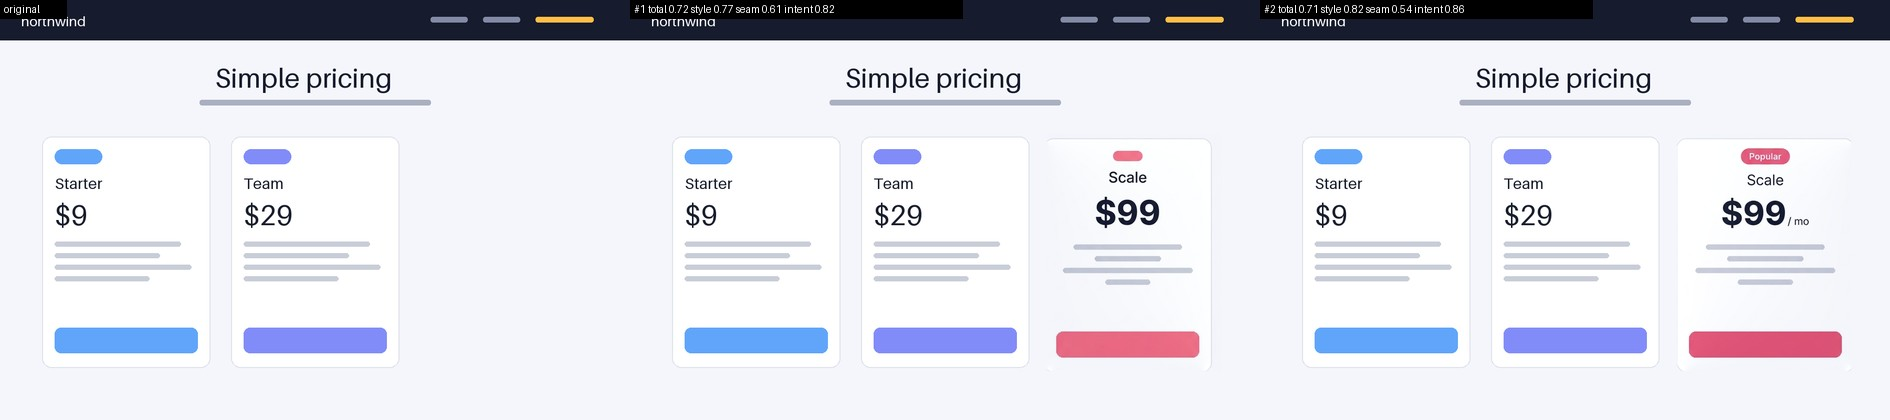
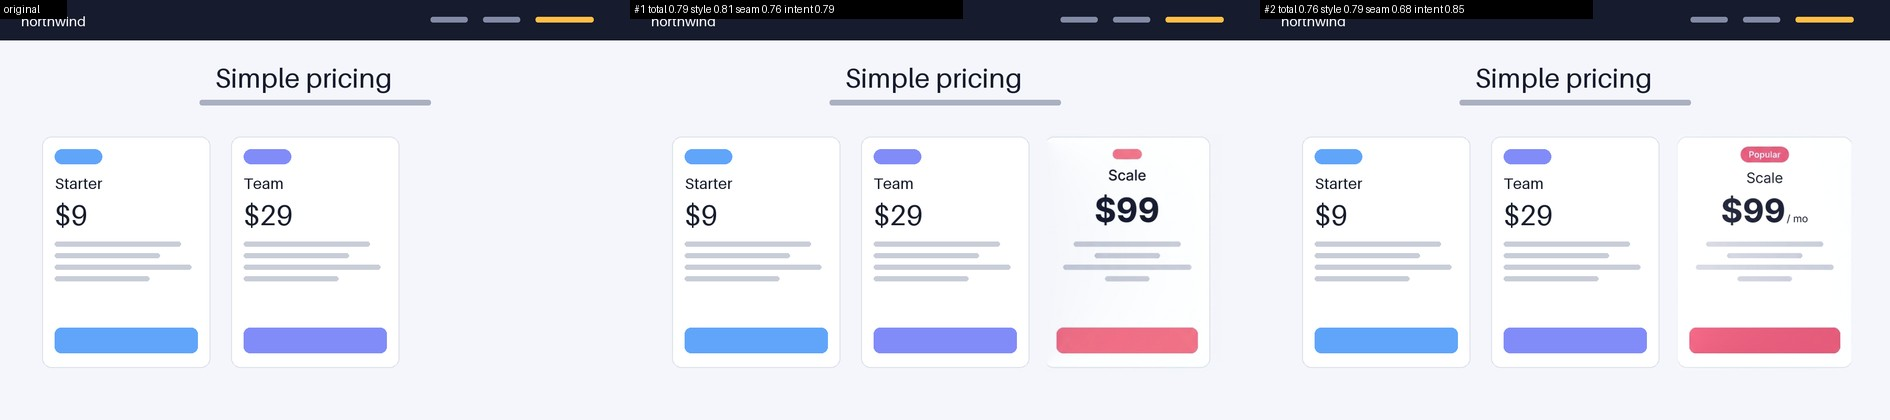
Align generated fills with the original before pasting them in
Gemini takes no mask and redraws the whole crop, and its output came
back zoomed about 1% and shifted about 5 px, so the new card landed off
its slot and its edge was clipped by the mask. The fill is now
registered to the original using the pixels outside the mask (ECC,
affine) before it is composited. Checked on a synthetic zoom-and-shift
and on the two cached live outputs; the proof sheet is regenerated.
Found by independent review.

diff --git a/backend/app/ideas/autocomplete.py b/backend/app/ideas/autocomplete.py
@@ -421,6 +421,38 @@ def _generation_size(w: int, h: int) -> tuple[int, int]:
     return (max(16, round(w * scale / 16) * 16), max(16, round(h * scale / 16) * 16))
 
 
+def register(generated: Image.Image, original: Image.Image, mask: np.ndarray) -> Image.Image:
+    """Line a generated image up with the original before pasting part of it in.
+
+    An edit model that takes no mask redraws the whole picture, and what comes
+    back is typically zoomed by a percent or so and shifted a few pixels. Pasted
+    in as it is, the new element lands off its slot. The pixels outside the mask
+    show the same content in both images, so they are used to find the small
+    shift/zoom between the two, which is then undone. If no alignment is found,
+    or it does not make the surroundings match better, the image is returned
+    unchanged.
+    """
+    ref_rgb, gen_rgb = np.asarray(to_rgb(original)), np.asarray(to_rgb(generated))
+    ref = cv2.cvtColor(ref_rgb, cv2.COLOR_RGB2GRAY).astype(np.float32)
+    gen = cv2.cvtColor(gen_rgb, cv2.COLOR_RGB2GRAY).astype(np.float32)
+    # Stay clear of the region being replaced: its content differs on purpose.
+    outside = (cv2.dilate(mask, np.ones((31, 31), np.uint8)) == 0).astype(np.uint8)
+    if outside.mean() < 0.05:
+        return generated
+    warp = np.eye(2, 3, dtype=np.float32)
+    criteria = (cv2.TERM_CRITERIA_EPS | cv2.TERM_CRITERIA_COUNT, 200, 1e-6)
+    try:
+        _, warp = cv2.findTransformECC(ref, gen, warp, cv2.MOTION_AFFINE, criteria, outside * 255, 5)
+    except cv2.error:
+        return generated
+    h, w = ref.shape
+    aligned = cv2.warpAffine(gen_rgb, warp, (w, h), flags=cv2.INTER_LINEAR + cv2.WARP_INVERSE_MAP, borderMode=cv2.BORDER_REPLICATE)
+    keep = outside > 0
+    before = np.abs(gen - ref)[keep].mean()
+    after = np.abs(cv2.cvtColor(aligned, cv2.COLOR_RGB2GRAY).astype(np.float32) - ref)[keep].mean()
+    return Image.fromarray(aligned) if after < before else generated
+
+
 def composite(original: Image.Image, generated: Image.Image, mask: np.ndarray) -> Image.Image:
     """Generated pixels inside the mask, original pixels everywhere else."""
     out = original.copy()
@@ -527,7 +559,7 @@ def fill(
     fills = []
     for out in outputs:
         generated = img.copy()
-        generated.paste(out.resize(crop.size, Image.LANCZOS), (x0, y0))
+        generated.paste(register(out.resize(crop.size, Image.LANCZOS), crop, crop_mask), (x0, y0))
         raw = composite(img, generated, mask)
         blended = blend(img, generated, mask)
         patch = _crop_to_mask(blended, mask)

diff --git a/backend/tests/test_autocomplete.py b/backend/tests/test_autocomplete.py
@@ -4,6 +4,7 @@ import json
 import time
 from pathlib import Path
 
+import cv2
 import numpy as np
 import pytest
 from PIL import Image, ImageDraw
@@ -181,6 +182,40 @@ def test_blend_survives_a_tiny_mask():
     mask = np.zeros((200, 300), np.uint8)
     mask[50:52, 60:61] = 255
     assert A.blend(img, Image.new("RGB", img.size, (0, 0, 0)), mask).size == img.size
+
+
+def _slot_error(image: Image.Image, original: Image.Image, mask: np.ndarray) -> float:
+    """Mean difference from the original in a band just outside the mask."""
+    band = (cv2.dilate(mask, np.ones((61, 61), np.uint8)) > 0) & (cv2.dilate(mask, np.ones((33, 33), np.uint8)) == 0)
+    return float(np.abs(np.asarray(image).astype(float) - np.asarray(original).astype(float))[band].mean())
+
+
+@pytest.mark.parametrize("zoom, dx, dy", [(1.012, 5.0, -3.0), (0.99, -4.0, 6.0), (1.0, 0.0, 0.0)])
+def test_register_undoes_a_small_zoom_and_shift(zoom, dx, dy):
+    img, truth = DESIGNS["pricing_missing_right"]()
+    x, y, w, h = truth[0]
+    mask = np.zeros((img.height, img.width), np.uint8)
+    mask[y : y + h, x : x + w] = 255
+    # What an edit model returns: the design with the slot filled, slightly zoomed and shifted.
+    filled = img.copy()
+    ImageDraw.Draw(filled).rounded_rectangle((x, y, x + w, y + h), radius=18, fill=(255, 255, 255), outline=(222, 226, 235))
+    cx, cy = img.width / 2, img.height / 2
+    m = np.float32([[zoom, 0, (1 - zoom) * cx + dx], [0, zoom, (1 - zoom) * cy + dy]])
+    drifted = Image.fromarray(cv2.warpAffine(np.asarray(filled), m, img.size, borderMode=cv2.BORDER_REPLICATE))
+
+    aligned = A.register(drifted, img, mask)
+    assert _slot_error(aligned, img, mask) <= max(0.6, _slot_error(drifted, img, mask) * 0.25)
+    # The filled card's left edge is back on the slot's left edge (within a pixel).
+    row = np.asarray(aligned.convert("L")).astype(int)[y + h // 2]
+    edge = int(np.argmax(np.abs(np.diff(row[x - 12 : x + 12])))) + x - 12
+    assert abs(edge - x) <= 1
+
+
+def test_register_gives_up_gracefully_when_nothing_lies_outside_the_mask():
+    img, _ = _scene()
+    full = np.full((200, 300), 255, np.uint8)
+    other = Image.new("RGB", img.size, (9, 9, 9))
+    assert A.register(other, img, full) is other
 
 
 def test_composite_touches_only_the_masked_pixels():
